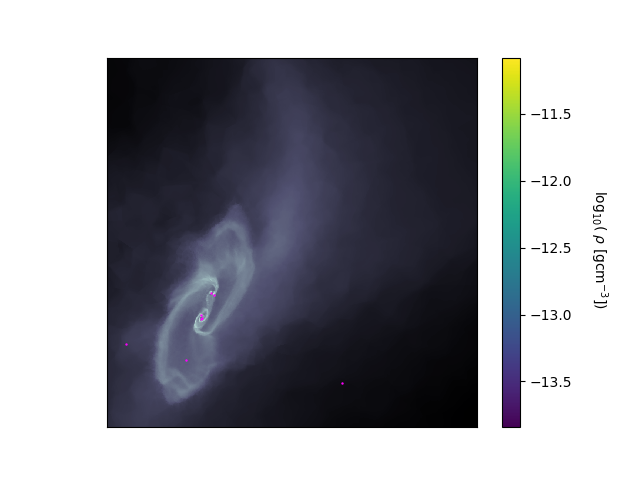
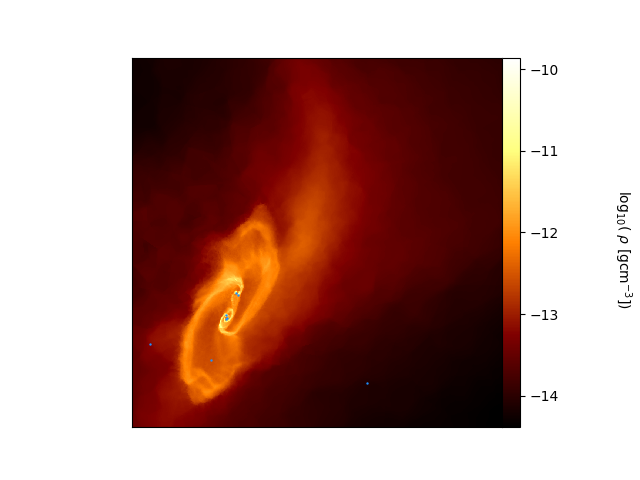
.

diff --git a/lewis_arepo_code/movie_maker.py b/lewis_arepo_code/movie_maker.py
@@ -1,4 +1,4 @@
-from numpy import * 
+import numpy as np
 import matplotlib.pyplot as plt
 import projection_functions 
 import arepo_utils 
@@ -20,11 +20,11 @@ def snapname(no):
 	return n
 
 def sink_pos(snap,pixels,imx1,imx2,imy1,imz1):
-        a=arepo_utils.aread(snap)
+	a=arepo_utils.aread(snap)
 	if a.npart[-1]>0:
-        	X,Y,Z=a.sinkx-imx1,a.sinky-imy1,a.sinkz-imz1
-        	pixel=(imx2-imx1)/pixels
-        	x,y,z=(X/pixel).astype(int),(Y/pixel).astype(int),(Z/pixel).astype(int)
+		X,Y,Z=a.sinkx-imx1,a.sinky-imy1,a.sinkz-imz1
+		pixel=(imx2-imx1)/pixels
+		x,y,z=(X/pixel).astype(int),(Y/pixel).astype(int),(Z/pixel).astype(int)
 	else:
 		x,y,z=np.array([0]),np.array([0]),np.array([0])
 	return x,y,z
@@ -39,16 +39,17 @@ def plot_save(dirname,imnames,nos,imx1,imx2,imy1,imz1,outdir):
 		if i==0:
 			vmin=(np.log10(im).min())
 			vmax=(np.log10(im).max())
-		ax.imshow(np.log10(im),vmin=vmin,vmax=vmax,cmap='bone')
-		cbar=plt.colorbar(image)
+		image=ax.imshow(np.log10(im),vmin=vmin,vmax=vmax,cmap='afmhot')
+		cbar=plt.colorbar(image,pad=0)
 		plt.text(1300,600,r'log$_{10}$( $\rho$ [gcm$^{-3}] )$', rotation=270)
-		ax.scatter(y,x,c='magenta',s=0.5)
-		ax.set_ylim(0,pixels)
-		ax.set_xlim(0,pixels)
+		ax.scatter(y,x,c='dodgerblue',s=0.5)
+		ax.set_ylim(0,1000)
+		ax.set_xlim(0,1000)
 		ax.set_aspect('equal')
 		ax.set_yticks([])
 		ax.set_xticks([])
 		plt.savefig(outdir+n+'.png')
+		plt.close('all')
 	
 
 
